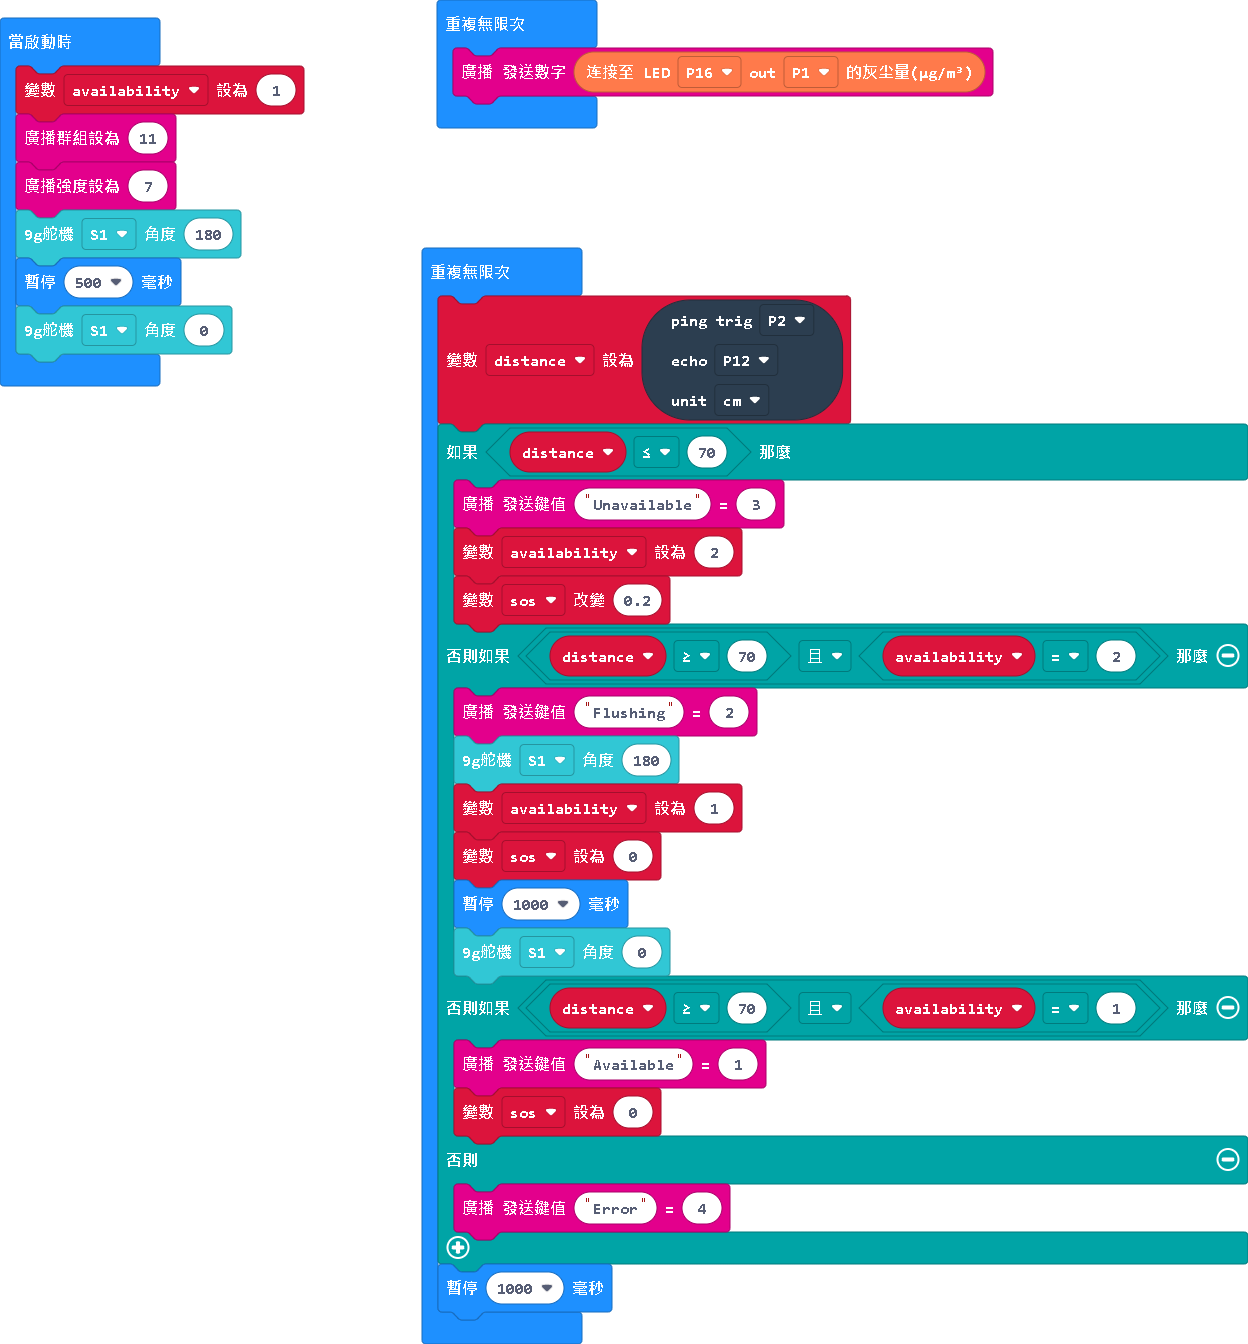
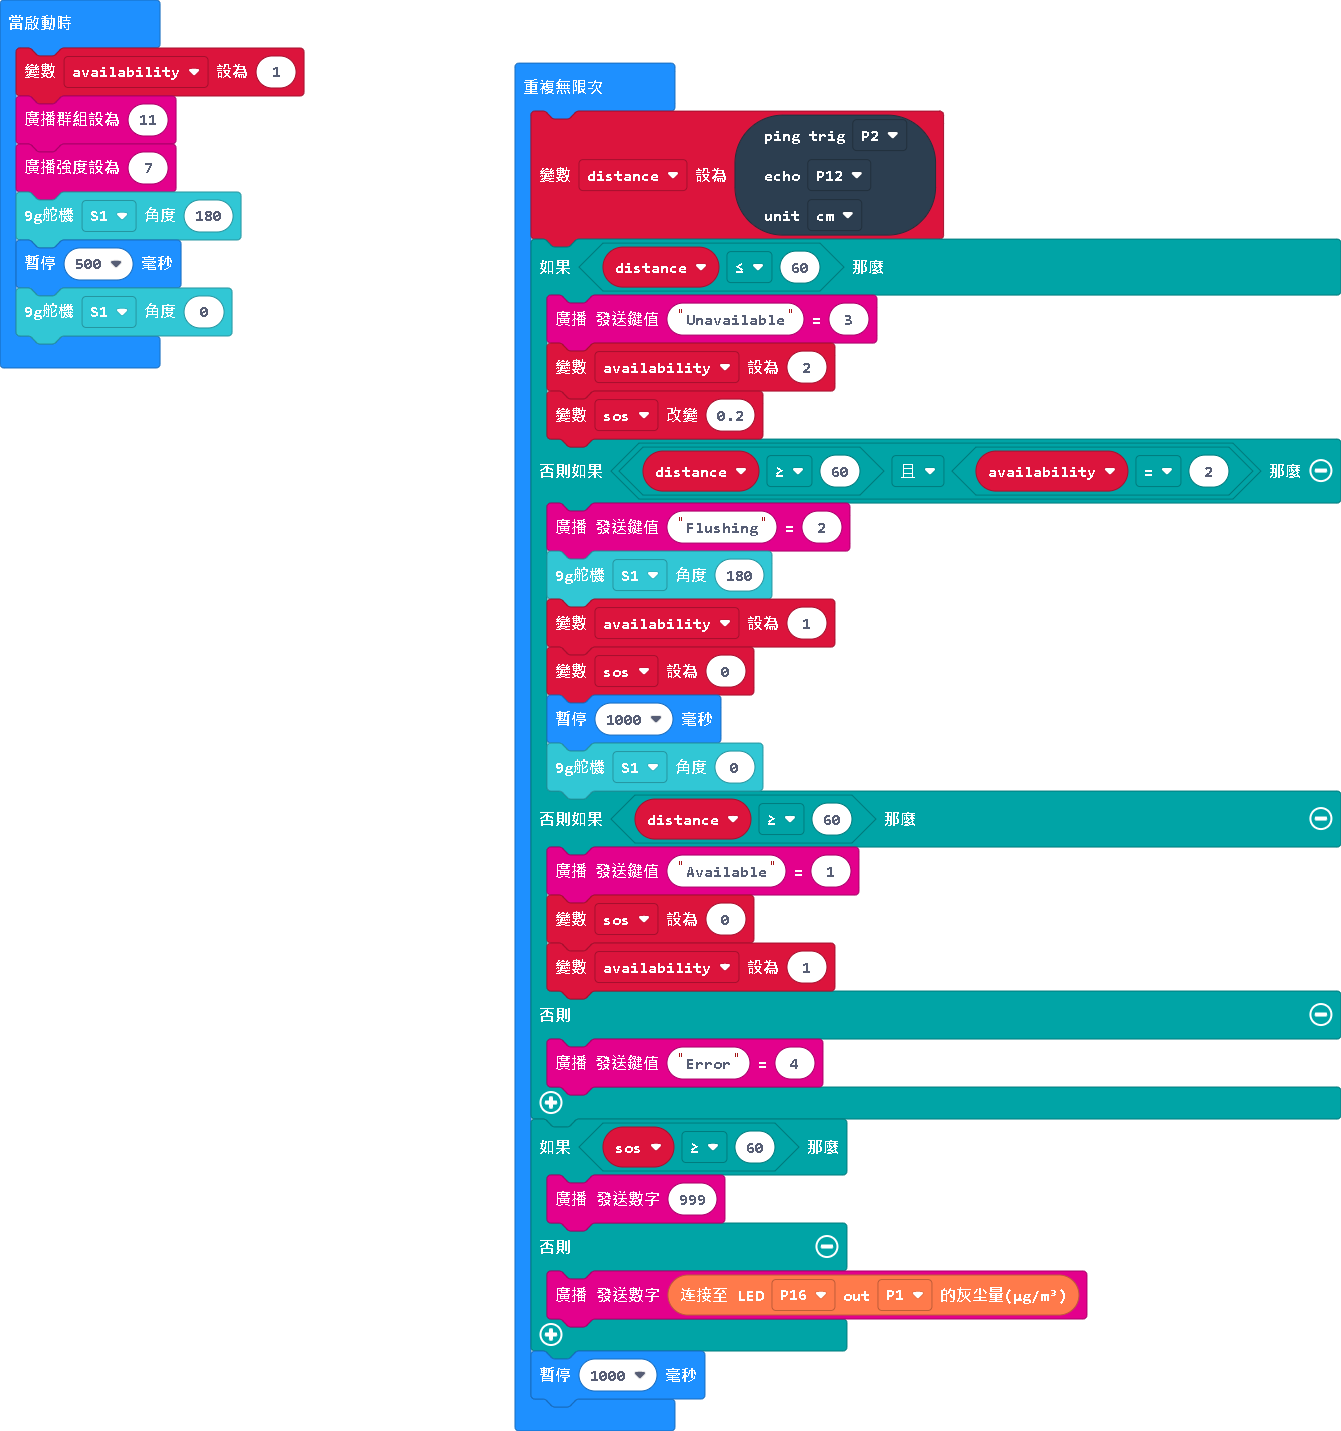
更新 main.blocks, main.ts

diff --git a/main.ts b/main.ts
@@ -7,30 +7,33 @@ robotbit.Servo(robotbit.Servos.S1, 180)
 basic.pause(500)
 robotbit.Servo(robotbit.Servos.S1, 0)
 basic.forever(function () {
-    radio.sendNumber(Environment.ReadDust(DigitalPin.P16, AnalogPin.P1))
-})
-basic.forever(function () {
     distance = sonar.ping(
     DigitalPin.P2,
     DigitalPin.P12,
     PingUnit.Centimeters
     )
-    if (distance <= 70) {
+    if (distance <= 60) {
         radio.sendValue("Unavailable", 3)
         availability = 2
         sos += 0.2
-    } else if (distance >= 70 && availability == 2) {
+    } else if (distance >= 60 && availability == 2) {
         radio.sendValue("Flushing", 2)
         robotbit.Servo(robotbit.Servos.S1, 180)
         availability = 1
         sos = 0
         basic.pause(1000)
         robotbit.Servo(robotbit.Servos.S1, 0)
-    } else if (distance >= 70 && availability == 1) {
+    } else if (distance >= 60) {
         radio.sendValue("Available", 1)
         sos = 0
+        availability = 1
     } else {
         radio.sendValue("Error", 4)
+    }
+    if (sos >= 60) {
+        radio.sendNumber(999)
+    } else {
+        radio.sendNumber(Environment.ReadDust(DigitalPin.P16, AnalogPin.P1))
     }
     basic.pause(1000)
 })
